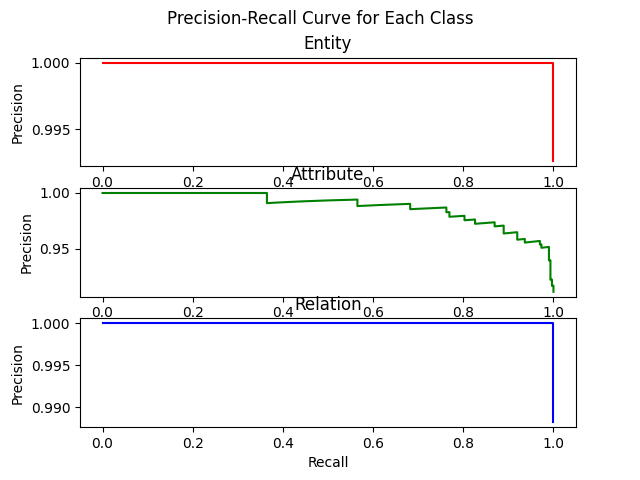
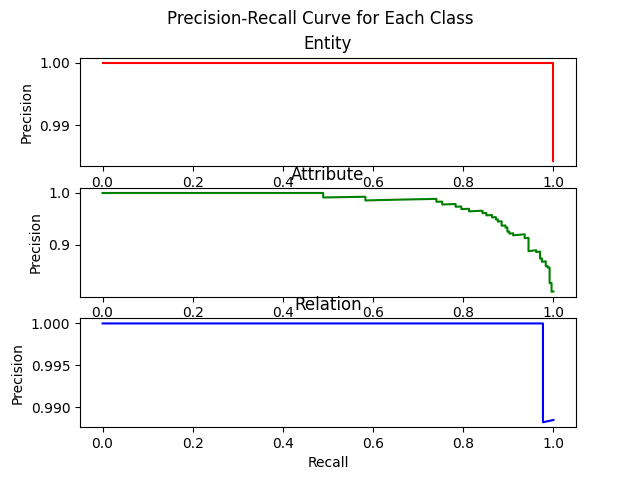
chore: Perform experiments and new trainings

diff --git a/AI_PROJECT/models/detector_functions.py b/AI_PROJECT/models/detector_functions.py
@@ -6,7 +6,7 @@ from datasets.utils.transformations import collate_function_detector
 from torchmetrics.detection import MeanAveragePrecision
 import os
 from models.utils import (get_cuda_device, Averager, nms_on_output_dictionary,
-                         nms_filter_boxes, evaluate_predictions, test_transform)
+                          nms_filter_boxes, evaluate_predictions, test_transform)
 
 
 def checkpoint(model, filedir, epoch):
@@ -76,7 +76,7 @@ def train_model(train_data_loader, valid_data_loader,
             print(f"Epoch #{epoch} loss: {loss_hist.value}")
 
 
-def inference_test(weights_file, model, test_dataloader):
+def inference_test(weights_file, model, test_dataloader, iou_threshold):
     model.load_state_dict(torch.load(weights_file))
     device = get_cuda_device()
     model.to(device)
@@ -89,7 +89,7 @@ def inference_test(weights_file, model, test_dataloader):
                 boxes = output[ind]['boxes'].data.cpu()
                 labels = output[ind]['labels'].data.cpu()
                 scores = output[ind]['scores'].data.cpu()
-                filtered_boxes, filtered_labels, _ = nms_filter_boxes(boxes, scores, labels, 0.15)
+                filtered_boxes, filtered_labels, _ = nms_filter_boxes(boxes, scores, labels, iou_threshold)
                 new_image = image.data.cpu()
                 visualize_images(new_image, filtered_boxes, filtered_labels, inference=True)
 
@@ -106,14 +106,17 @@ def get_inference_and_metrics(weights_file, model, data_loader, num_classes, iou
         for images, targets in data_loader:
             images = [image.to(device) for image in images]
             outputs = model(images)
-            
+
             for i, output in enumerate(outputs):
                 gt_boxes = targets[i]['boxes'].cpu().numpy()
                 gt_labels = targets[i]['labels'].cpu().numpy()
                 pred_boxes = output['boxes'].data.cpu()
                 pred_scores = output['scores'].data.cpu()
                 pred_labels = output['labels'].data.cpu()
-                filtered_boxes, filtered_labels, filtered_scores = nms_filter_boxes(pred_boxes, pred_scores, pred_labels, 0.15)
+                filtered_boxes, filtered_labels, filtered_scores = nms_filter_boxes(pred_boxes,
+                                                                                    pred_scores,
+                                                                                    pred_labels,
+                                                                                    iou_threshold)
                 filtered_boxes = filtered_boxes.numpy()
                 filtered_labels = filtered_labels.numpy()
                 filtered_scores = filtered_scores.numpy()

diff --git a/AI_PROJECT/models/detector_definition.py b/AI_PROJECT/models/detector_definition.py
@@ -6,11 +6,11 @@ import torchvision
 def model_defintion():
     model = torchvision.models.detection.fasterrcnn_mobilenet_v3_large_fpn(
             weights=FasterRCNN_MobileNet_V3_Large_FPN_Weights.DEFAULT)
-    model.rpn.score_thresh = 0.2
-    model.rpn.nms_thresh = 0.3
+    model.rpn.score_thresh = 0.4
+    model.rpn.nms_thresh = 0.6
     model.roi_heads.detections_per_img = 70
-    model.roi_heads.nms_thresh = 0.3
-    model.roi_heads.score_thresh = 0.1
+    model.roi_heads.nms_thresh = 0.5
+    model.roi_heads.score_thresh = 0.3
     # model.rpn._post_nms_top_n["testing"] = 1500
     # model.rpn._post_nms_top_n["training"] = 2000
     # model.transform.image_mean = [0.9844960020963516, 0.9844960020963516, 0.9844960020963516]

diff --git a/ght/utils/detector/hough.py b/ght/utils/detector/hough.py
@@ -14,11 +14,11 @@ def ght_det(im, mode, alg):
     temp = 0
 
     if mode == "r":
-        temp = cv2.imread("utils/detector/rect.png", cv2.IMREAD_GRAYSCALE)
+        temp = cv2.imread("ght/utils/detector/rect.png", cv2.IMREAD_GRAYSCALE)
     elif mode == "e":
-        temp = cv2.imread("utils/detector/ellipse2.png", cv2.IMREAD_GRAYSCALE)
+        temp = cv2.imread("ght/utils/detector/ellipse2.png", cv2.IMREAD_GRAYSCALE)
     else:
-        temp = cv2.imread("utils/detector/rhombus.png", cv2.IMREAD_GRAYSCALE)
+        temp = cv2.imread("ght/utils/detector/rhombus.png", cv2.IMREAD_GRAYSCALE)
     
     #scale = 0.5
     #new_shape = (int(temp.shape[0] * scale), int(temp.shape[1] * scale))

diff --git a/AI_PROJECT/perform_metrics_detector.py b/AI_PROJECT/perform_metrics_detector.py
@@ -8,7 +8,7 @@ if __name__ == "__main__":
     train_data_loader, valid_data_loader, test_data_loader = get_torch_dataloader(dataset_path="data_generator/img_fractional",
                                                                                   dims=(320, 320))
     model = model_defintion()
-    weights_path = "AI_PROJECT\output\model_25.pth"
+    weights_path = r"AI_PROJECT\output\model_15.pth"
     # inference_test(weights_path, model, test_data_loader)
     y_true, y_scores = get_inference_and_metrics(weights_path, model, test_data_loader, 3, iou_threshold=0.5)
     create_PRC(y_true, y_scores, 3)

diff --git a/AI_PROJECT/detect_and_relate.py b/AI_PROJECT/detect_and_relate.py
@@ -34,7 +34,7 @@ def resize_bounding_boxes(bounding_boxes, dims):
 
 if __name__ == "__main__":
     model_detector = model_defintion()
-    detector_weights_path = "AI_PROJECT\output\model_20.pth"
+    detector_weights_path = "AI_PROJECT\output\model_15.pth"
     classifier_weights_path = r"AI_PROJECT\output\classification_output\best_model_21.pth"
     test_image = r"AI_PROJECT\prueba.png"
     dims = (320, 320)

diff --git a/AI_PROJECT/train_object_detector.py b/AI_PROJECT/train_object_detector.py
@@ -7,5 +7,5 @@ if __name__ == "__main__":
     model = model_defintion()
     train_data_loader, valid_data_loader, test_data_loader = get_torch_dataloader(dataset_path="data_generator/img_fractional",
                                                                                   dims=(320, 320))
-    
+
     train_model(train_data_loader, valid_data_loader, model)
